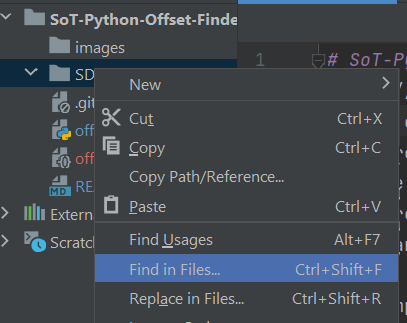
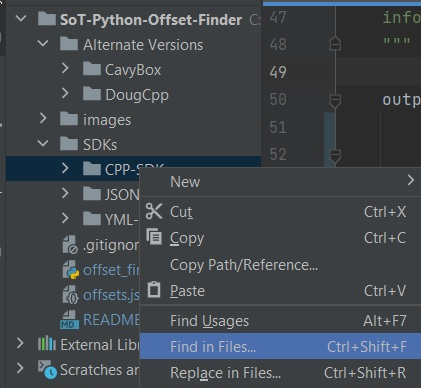
readme.md 2.0

diff --git a/offset_finder.py b/offset_finder.py
@@ -48,16 +48,19 @@ if __name__ == '__main__':
     """
 
     output = {
-        "AActor.actorId": 24,
-        "AActor.rootComponent": get_offset(ENGINE, "Actor", "RootComponent"),
-        "APlayerState.PlayerName": get_offset(ENGINE, "PlayerState", "PlayerName"),
-        "UGameInstance.LocalPlayers": get_offset(ENGINE, "GameInstance", "LocalPlayers"),
-        "ULocalPlayer.PlayerController": get_offset(ENGINE, "Player", "PlayerController"),
-        "UWorld.OwningGameInstance": get_offset(ENGINE, "World", "OwningGameInstance"),
-        "UWorld.PersistentLevel": get_offset(ENGINE, "World", "PersistentLevel"),
-        "APlayerController.CameraManager": get_offset(ENGINE, "PlayerController", "PlayerCameraManager"),
-        "APlayerCameraManager.CameraCache": get_offset(ENGINE, "PlayerCameraManager", "CameraCache"),
-        "FCameraCacheEntry.FMinimalViewInfo": get_offset(ENGINE_STRUCT, "CameraCacheEntry", "POV"),
+        "Actor.actorId": 24,  # The ID number associated with an actor type
+        "SceneComponent.ActorCoordinates": 0x12c,  # Currently located at SceneComponent.RelativeScale3D+0xC
+        # SDK Generator is incapable of pulling this automatically, may need to fix if you have issues
+        "Actor.rootComponent": get_offset(ENGINE, "Actor", "RootComponent"),
+        "PlayerState.PlayerName": get_offset(ENGINE, "PlayerState", "PlayerName"),
+        "GameInstance.LocalPlayers": get_offset(ENGINE, "GameInstance", "LocalPlayers"),
+        "LocalPlayer.PlayerController": get_offset(ENGINE, "Player", "PlayerController"),
+        "World.OwningGameInstance": get_offset(ENGINE, "World", "OwningGameInstance"),
+        "World.PersistentLevel": get_offset(ENGINE, "World", "PersistentLevel"),
+        "PlayerController.CameraManager": get_offset(ENGINE, "PlayerController", "PlayerCameraManager"),
+        "PlayerCameraManager.CameraCache": get_offset(ENGINE, "PlayerCameraManager", "CameraCache"),
+        "CameraCacheEntry.MinimalViewInfo": get_offset(ENGINE_STRUCT, "CameraCacheEntry", "POV"),
+
     }
     with open("offsets.json", "w+") as outfile:
         outfile.write(json.dumps(output, indent=2, sort_keys=True))

diff --git a/README.md b/README.md
@@ -16,9 +16,9 @@ an SDK that I do not provide, you may need to adjust the `offset_finder.py` to e
 to the filenames are correct.
 
 ## How to Use
-Clone this repo, then within the folder created, load in the current SoT SDK into an "SDK" folder if it is not
-up-to-date,  ensure the `offset_finder.py` global variables are pointing to the correct paths (at the top 
-of the file), and simply "run" the offset finder script.
+Clone this repo. Within the folder created ensure the `offset_finder.py` global variables are pointing to the correct paths for your up-to-date JSON SDK (at the top 
+of the file), and "run" the offset finder script. _**The offset_finder here will only work with my custom JSON
+SDK's, if you need a normal C++ equivalent file reader, see `/Alternate Versions/DougCpp`.**_
 
 There are currently 3 version of the SDK I generate using my own methods:
 1) C++ - This is a roughly C++ equivalent SDK, it can be a bit easier to find new objects in this kind of structure
@@ -27,32 +27,153 @@ There are currently 3 version of the SDK I generate using my own methods:
 
 As you develop your version of the framework further, you can update the dictionary being built in this
 file to automatically pull the offsets you are utilizing. You will primarily utilize the three SDK files 
-highlighted in the global variables.
+highlighted in the global variables, but may need to add more as you work with the SDK.
 
-## How to search the SDK
-1) Find an interesting actor name. For this example, we will use `IslandService`
-   1) "How do I find an interesting actor name?"
-      1) Printing out all the actors in the console is going to be the easiest. 
-      2) Create a "Debug mode" that allows you to see all actors in the world via 3D ESP, 
-         then you may be able to determine the names for a specific actor
-2) Search for `IslandService` in an SDK
-   1) If you are using PyCharm (as I am, and as I recommend) follow these steps:
-      1) Right click the SDK folder and select "Find In Files"
-      ![](images/find-in-files.png)
-      2) In the newly opened window, enter the key you want to search for, in our case `IslandService`
-      ![](images/search.png)
-      3) This will give you an entire list of where `IslandService` is mentioned in the SDK.
-      4) Note: The "pin" icon at the top right of the window will allow you to keep the search window open, and I have found it useful
-3) We then need to find the class for `IslandService`. In this case it is `class AIslandService : public AActor`
-   1) Classes often starts with a U or A in the SDK before the actual name 
-   2) Searching for `<actor name> :` may also help condense the list to just classes
-   3) A class will likely be a subclass of another parent class; so in this situation, `AIslandService` is a subclass to `AActor`. 
-   That effectively means you can also use the memory offsets/data from the superclass as well (`AActor` in this case). 
-4) Once we have identified our class object in the SDK, we can investigate the offsets associated with each of the classes, 
-   these will often be described under the `public:` section in our class. At the time of writing, `AIslandService` has a subclass of `UIslandDataAsset` located at `0x0458`,
-   if we want to pull data from the `UIslandDataAsset` class, we need to get the pointer located at `AIslandService`+`0x0458`, then we effectively repeat steps 3 & 4 until we find data we are interested in.
+## SDK Utilization
+In order to search the SDK, I generally recommend you first have an "interesting actor name" identified that will serve
+as a starting point. https://github.com/DougTheDruid/SoT-ESP-Framework#finding-interesting-actors will walk through this
+identification process a bit more in-depth. For the sake of this walk-through, I am going to make the following assumptions:
+1) We have gone through the identification steps and determined that all actors with a name of `BP_PlayerPirate_C` are players in the game (yourself, allies, etc.) within render distance
+2) I will be using the C++ SDK as it is easier to navigate in my experience
+3) You are using PyCharm or another IDE which has a "Find in Files" feature
 
-Notes:
-- Often on forums, you will see folks describe this as "AIslandService>UIslandDataAsset>SpawningGracePeriod", effectively this means we will get out `AIslandService` object, get the address for `UIslandDataAsset`, then read `SpawningGracePeriod` (a float) to get the data we want
-- Don't forget you can utilize the memory addresses from superclasses as well, often times it is very useful!
+With those assumptions out of the way, lets get started:
+1) Let's open our SoT-Python-Offset-Finder project and expand the "SDKs" folder to reveal the three SDK types
+2) Right-click the `CPP-SDK` folder and select "Find In Files"
+
+   ![](images/find-in-files.png)
+
+   This will open a new window that will allow you to search any of the files within the `CPP-SDK` directory, because we don't
+know what file we want to look in, "Find in Files" is a necessity until we figure that out
+3) We are looking for the `BP_PlayerPirate_C` entity, so lets just start by searching for that in the top search bar
+
+   ![](images/search.png)
+
+   In this case, we have a single result, but there is a lot of good information here that we can break down a bit:
+   1) Once you select a result, you will see which file the result was from at the top of the code portion, in our case "BP_PlayerPirate_Classes.h"
+   2) Once you select a result, it will take you to where in that file the searched text is found in the file
+   3) For `*_Classes.h` files, you will always have the following components:
+      1) There will be a Size value above each class (calculated using offsets later on)
+      2) The name of the class: `class BP_PlayerPirate_C`
+      3) The name of the parent class: `public AthenaPlayerCharacter`
+      4) There is a list of public attributes the class contains, for each of which there are three primary subcomponents
+         1) The type of the attribute (A pointer to another class, struct, integer, bool, float, etc.)
+         2) The name attribute, just used for identification purposes
+         3) The offset the attributes lives at for the class
+   4) For `*_Struct.h` files, you will have the following components
+      1) There will be a Size value above each struct (calculated using offsets later on)
+      2) The name of the struct
+      3) There is a list of public attributes the struct contains, for each of which there are three primary subcomponents
+         1) The type of the attribute (A pointer to another class, struct, integer, bool, float, etc.)
+         2) The name attribute, just used for identification purposes
+         3) The offset the attributes lives at for the struct
+         
+With that general understanding out of the way, lets cover a couple of these topics more in depth:
+
+### Optimizing Searches
+You may not be so lucky to find a single result in a search, but there are a couple of useful tips to help find the appropriate:
+- If you are searching for a class (something you found in a Debug-mode in-game, or a `class` pointer reference, etc.), you can generally search for `class <your class name>:`
+which should yield a single result.
+- If you are looking for a struct, you can search for `struct <struct name>\n` after enabling the regex search pattern on the right of the search bar
+
+### Pointers to Classes
+You may come across a number of `Class <name here>*`-type attributes in the SDK. These are almost always 8-bytes in size
+and represent the base-address/location of a sub-class. For example, we have a class with the following attribute:
+```
+Class StaggerComponent*                                      StaggerComponent;                                  // 0xd00(0x8)
+```
+If I perform a `stagger_component = read_ptr(actor_addres+0xD00)` function call, it will return a _new_ actor address that I can reference as it relates
+to my original actor. We have stored that new address in `stagger_component`, which we can read the data from that
+sub-class by looking up the attributes of a `class StaggerComponent:` and reading the data located at `stagger_component+<offset>`
+
+### Understanding Offsets & Parent Classes
+In our class files, most classes will have a "Parent" class, which are an extremely important concept to grasp prior to beginning
+to work with memory in UE4. Ultimately this comes down to a complex programming concept called inheritance. In short, a child object
+(e.g. `BP_PlayerPirate_C`), automatically inherits all the attributes of its parent(s) (e.g. `AthenaPlayerCharacter`). But what does that really mean?
+
+The best way to describe this is with an example:
+Lets say you're looking at the attributes available for `BP_PlayerPirate_C` and decide that `TattooGlowDuration` is an 
+interesting field:
+```
+float                                                        TattooGlowDuration;                                // 0x1ae8(0x4)
+```
+(Note: your SDK offsets may vary from my examples, but follow along with what I provide)
+
+We will already know what our `BP_PlayerPirate_C`'s base-address is from the framework, lets pretend its `0xABC1234`. We also 
+know the offset `TattooGlowDuration` lives at is `0x1AE8`, is a float-type, and a size of 4-bytes. If we simply
+perform a `read_float(0xABC1234+0x1AE8)` call, we will get the float which represents our TattooGlowDuration.
+
+As another note, generally we won't even "know" our actors addresses, we just refer to it by the address variable that the framework generates.
+
+Who really cares about TattooGlowDuration though?! We want more interesting stuff! Let's say you start to look at the remaining
+attributes available in `BP_PlayerPirate_C` and you don't find anything you are interested in. That's where parent classes can
+be so helpful.
+
+We know that `BP_PlayerPirate_C` is a child of `AthenaPlayerCharacter`, so lets look that parent class up in the SDK:
+![](images/parent_1.png)
+
+Now this has a ton more information, nearly 100 attributes here alone! Before we get ahead of ourselves and look at the attributes,
+there is something important you may have noticed, `AthenaPlayerCharacter` also has its own parent of `AthenaCharacter`. Classes
+can be nested infinitely deep and compound on one another. The entire chain to create a `BP_PlayerPirate_C` looks something like:
+`Unreal Object>Actor>Pawn>Character>AthenaCharacter>AthenaPlayerCharacter>BP_PlayerPirate_C`. So in reality, anytime we have 
+an object of `BP_PlayerPirate_C`, it is inheriting the attributes of _**all**_ the parent classes as well.
+
+What does this mean for us though? 
+
+Continuing looking back at `class AthenaPlayerCharacter:` lets say we determine `FinishedWaitingForSpawn` to be a field we want to track:
+```
+bool                                                         FinishedWaitingForSpawn;                           // 0x1a00(0x1)
+```
+You may be inclined to think there is some sorcery you must do in order to read data from the parent classes, but alas there is no
+magic here. Because classes automatically inherit all the attributes of parent-classes, reading the memory at `<child address>+<offset>`
+works the exact same way as our previous `TattooGlowDuration` example, the offset is just different. So in this scenario, it would be `read_bool(0xABC1234+0x1A00)`. A keen
+eye may also recognize that the ranges of offsets for parent objects never overlaps or results in duplicates, validating this concept further.
+
+### Structs
+Like pointers to other classes, structs can be another complex topic. For our purposes, a `struct` is simply a defined
+group of data that is consistently organized in the same way. If we continue along with our example of looking at our `AthenaPlayerCharacter`
+class, we will find that there is a struct called `ServerSprintConditionParams` of type `Struct SprintConditionsParams` located
+at offset `0xE10`. It is also worth noting that this struct has a size of `0xC`, which is 12-bytes. 
+```
+Struct SprintConditionsParams                                ServerSprintConditionParams;                       // 0xe10(0xc)
+```
+The "type" of this attribute is `Struct SprintConditionsParams`, so lets look that up in the SDK. You should get a single result of:
+```
+// Size 0xc
+struct SprintConditionsParams
+{
+public:
+	float                                                        ForwardInputVectorTolerance;                       // 0x0(0x4)
+	float                                                        MinVelocityForwardDot;                             // 0x4(0x4)
+	float                                                        MinVelocityMagnitude;                              // 0x8(0x4)
+};
+```
+Related to our comment before, we can see the size of this struct is `0xC`, and it's comprised of three floats. Pretending we
+are interested in `MinVelocityForwardDot` out of this struct, how would we go about reading that float? Well, we know how to read
+out of the parent class already (reminder: it's the same as the child class), and we know the offset of our struct, perhaps you need to read
+it as if it was a pointer, similar to that section?
+
+This is often the first thought when working with structs, but is incorrect. Struct's are a way for us to create custom data-types
+as opposed to relying on floats, ints, pointers, etc. There is no extra layer to a struct, it's simply the way the data is structured
+at that location (`0xE10` in our example). In order to read `MinVelocityForwardDot`, we simply read the float at `actor_address+0xE10+0x4`.
+The first offset brings us to the start of our struct and the addition of the second offset allows us to pull that
+value directly.
+
+### Your Own Offset-Finder
+As you go through and find offsets that you find important, hard-coding those offset values is a poor idea; not only could there
+be issues if there is an update to the game (and therefore SDK), but how will you remember what these random numbers are responsible for?
+This is the purpose of the `offsets.json` and `offset_finder.py` files. 
+
+`offsets.json` is a way that we store useful offset externally to our ESP Framework. Instead of having a magic number to represent
+my offsets, I can instead pull the values from this file with a human-readable, descriptive name. If we open the included
+`offsets.json` file, we see that there is an entry called `PlayerController.CameraManager` equal to an integer. `PlayerController`
+is the class we pulled data from, and `CameraManager` is the specific attribute name we want to use for that class. Referencing
+`offsets.get('PlayerController.CameraManager')` in my code helps make it clear what offset I am pulling, what class type I should
+be adding it to (`PlayerController`), and provides a single place to update if there are any changes to the game/SDK.
+
+`offset_finder.py` is program to generate an `offsets.json` file given a list of offsets you want to pull from the SDK. If
+you are to add new features to your hack and begin to rely on additional offsets from the SDK, you should be sure to add the appropriate
+information into your own `offset_finder.py` so you can update your `offsets.json` file at your leisure should there be an update to the game/SDK.
+To add entries, you provide the file name you want to pull from, the class or struct name, and the attribute you want the offset of, and it pulls it 
+from the JSON SDK automatically for simple updates in the future.
 
